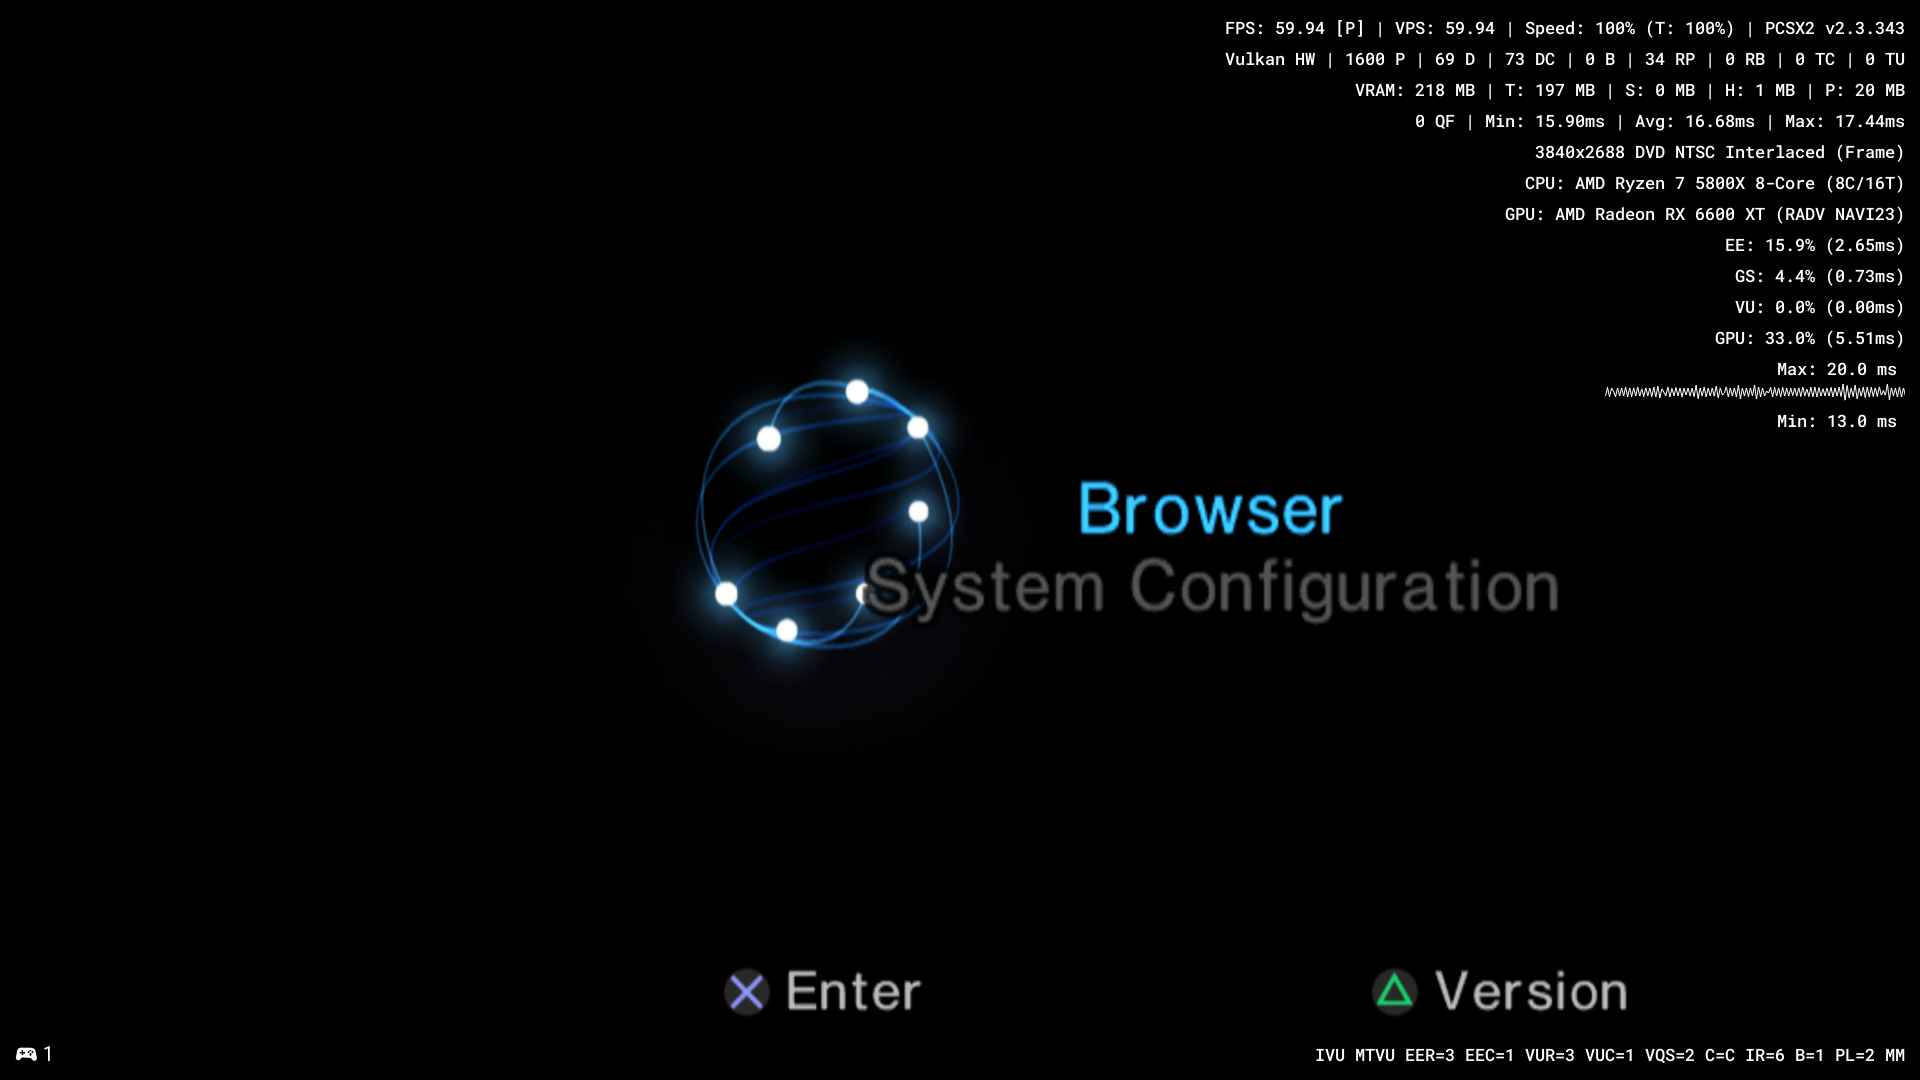
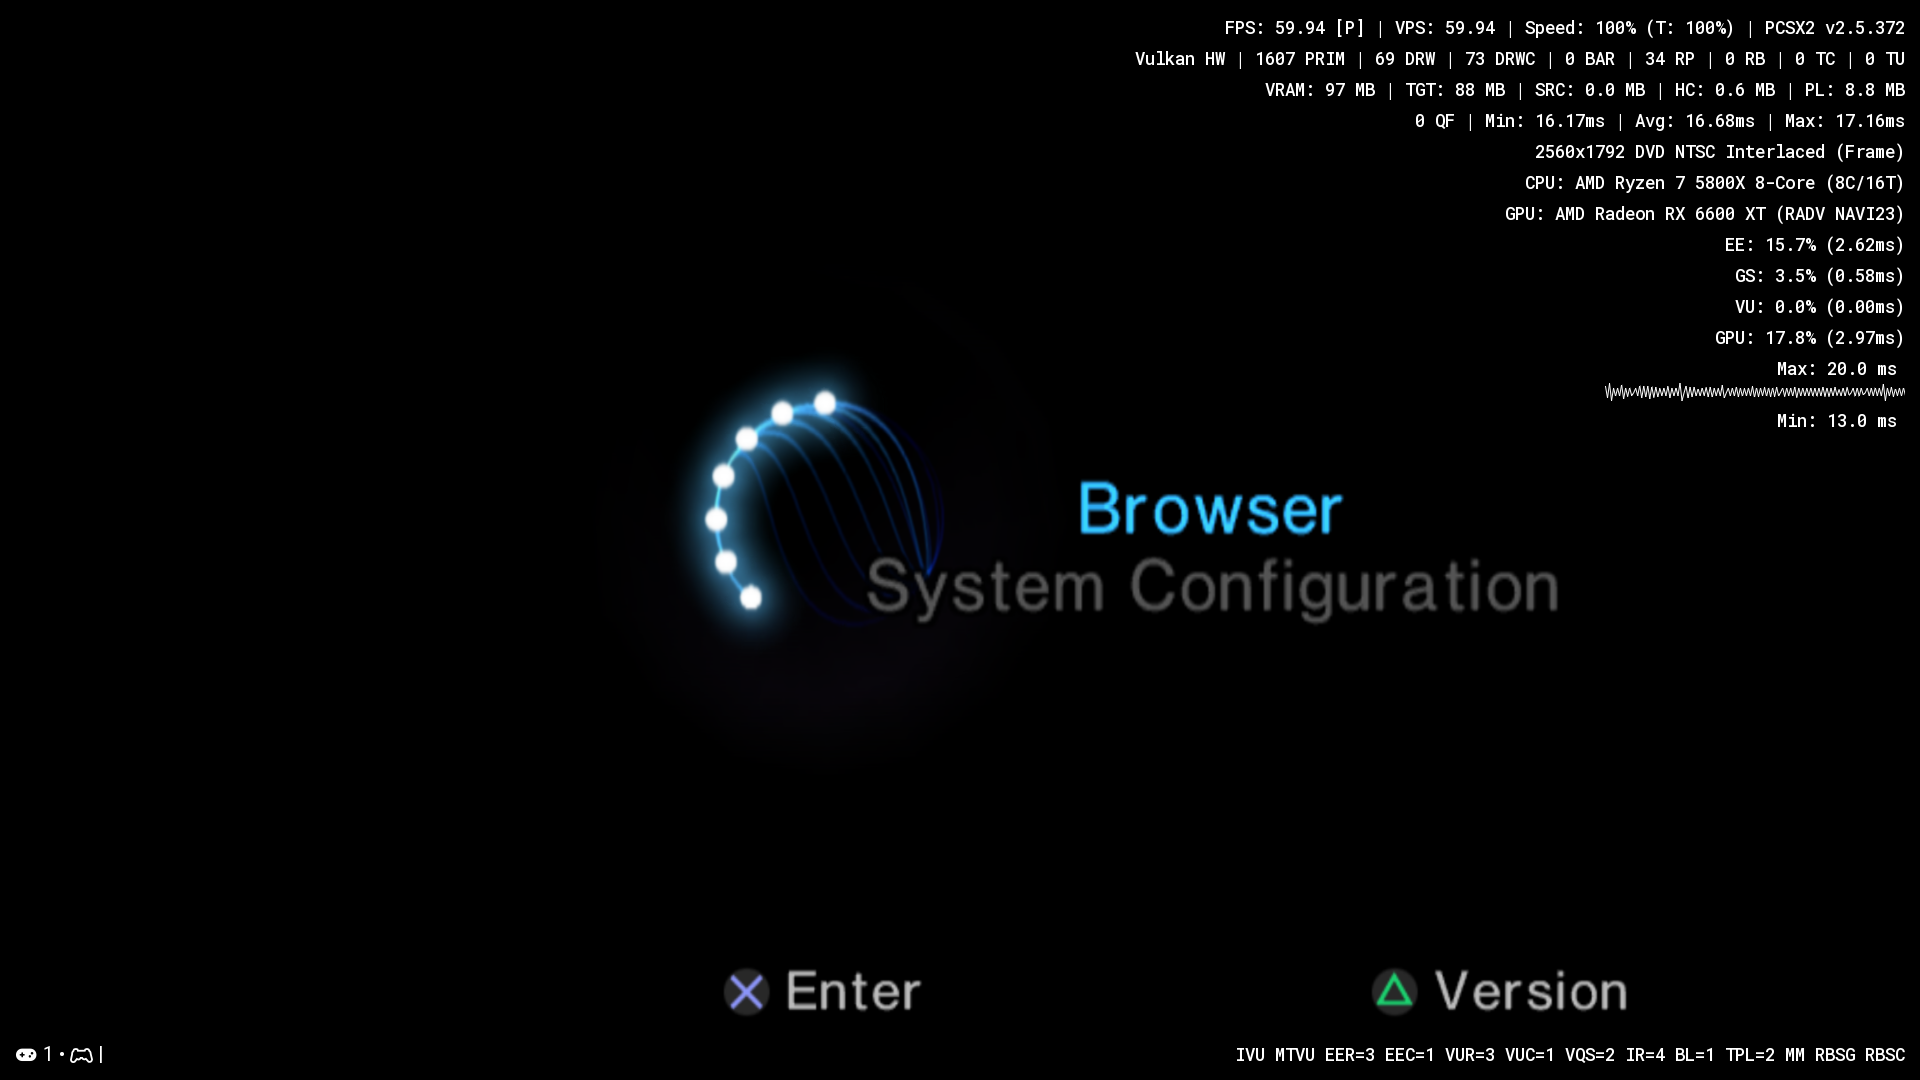
Docs: Update OSD Legends (#463)

diff --git a/docs/troubleshooting/performance.md b/docs/troubleshooting/performance.md
@@ -52,15 +52,16 @@ These metrics is crucial in identifying performance bottlenecks in PCSX2.
 
 ```ini
 === Line 1 ===
-G       = Games Internal FPS
-V       = Video Output FPS
-N%      = Games running speed (in Percentage)
+FPS     = Games Internal FPS
+VPS     = Video Output FPS
+Speed   = Games Running Speed (in Percentage)
+T       = Games Target Speed (in Percentage)
 
 === Line 2 ===
-P       = Primitives
-D       = GS (PS2) Draws
-DC      = Draw Calls (on host GPU side)
-B       = Barriers
+PRIM    = Primitives
+DRW     = GS (PS2) Draws
+DRWC    = Draw Calls (on host GPU side)
+BAR     = Barriers
 RP      = Render Passes
 RB      = Readbacks
 TC      = Texture Copies
@@ -68,10 +69,10 @@ TU      = Texture Uploads
 
 === Line 3 ===
 VRAM    = Used VRAM
-T       = Targets
-s       = Sources
-H       = Hash Cache size
-P       = Pooled
+TGT     = Targets
+SRC     = Sources
+HC      = Hash Cache size
+PL      = Pooled
 ```
 
 :::tip
@@ -95,26 +96,34 @@ You can rank the severity in order of:
 **The more they are for each of them, the more that the performance will be impacted.**
 :::
 
-#### Software
+#### Software Mode
 
 <Image src={require("./img/OSD_SW.webp").default} />
 
 ```ini
-S       = Syncs
-P       = Polygons
-D       = Draws
-U       = Texture Swizzling (for storing data in the correct format in GS memory)
-D       = Texture DeSwizzling (for reading textures out of GS memory)
-mpps    = Million pixels per second
+SYNP     = Syncs
+PRIM     = Polygons
+DRW      = Draws
+SWIZ     = Texture Swizzling (for storing data in the correct format in GS memory)
+UNSWIZ   = Texture DeSwizzling (for reading textures out of GS memory)
+Mpps     = Million pixels per second
 ```
 
 ### Settings indicator
 
 This indicator shows the settings that are applied on the current VM session, usually located on the bottom right.
+When there are applied patches, additional indicator of how many that are loaded will be shown.
 
 <Image src={require("./img/OSD_Settings.webp").default} />
 
 ```ini
+
+DB      = Patches loaded from GameDB Compatibility Patches
+P       = Patches that are loaded by the user
+C       = Cheats that are loaded by the user
+
+==============================================================
+
 CR      = EE Cycle Rate
 CS      = EE Cycle Skip
 FCDVD   = Fast CDVD Enabled
@@ -126,7 +135,6 @@ EEC     = EE FPU Clamping Mode
 VUR     = VU Rounding Mode
 VUC     = VU Clamping Mode
 VQS     = VSync Queue Size
-C       = [CWN] = Normal Cheats (C), Widescreen Patches (W), No-Interlace Patches (N)
 IR      = Upscale Multiplier/Internal Resolution
 B       = Accurate Blending Unit
 PL      = Texture Preloading
